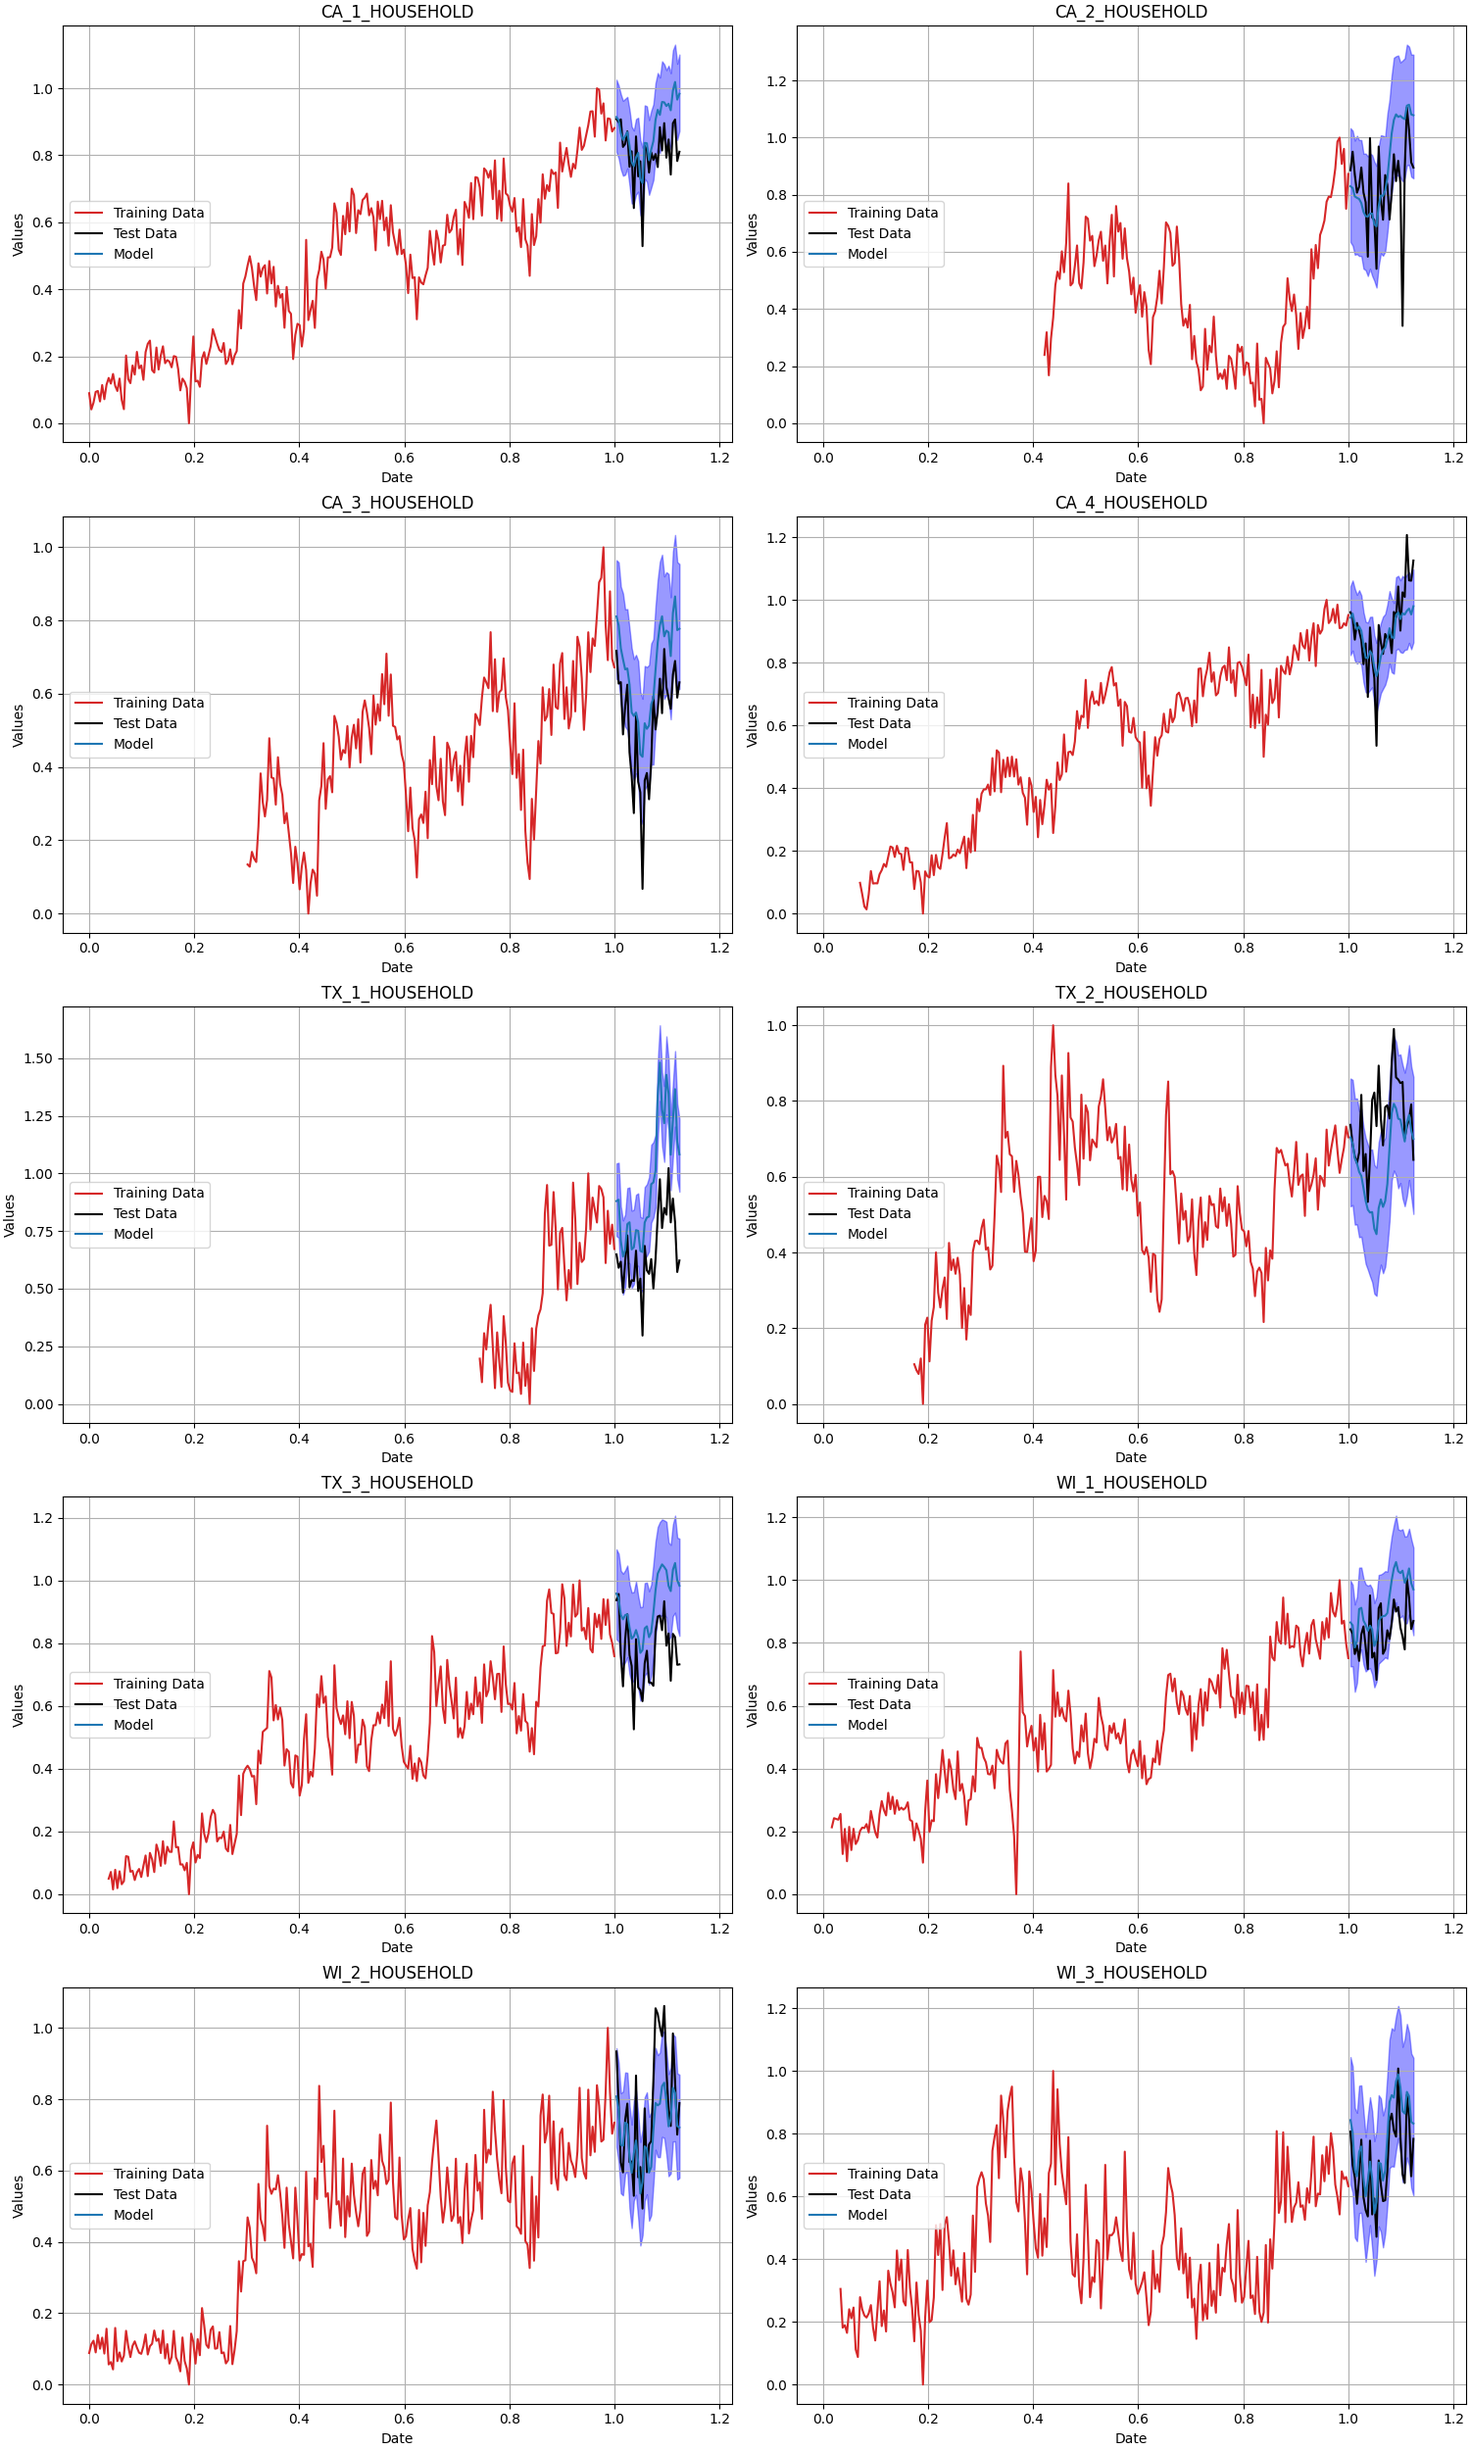
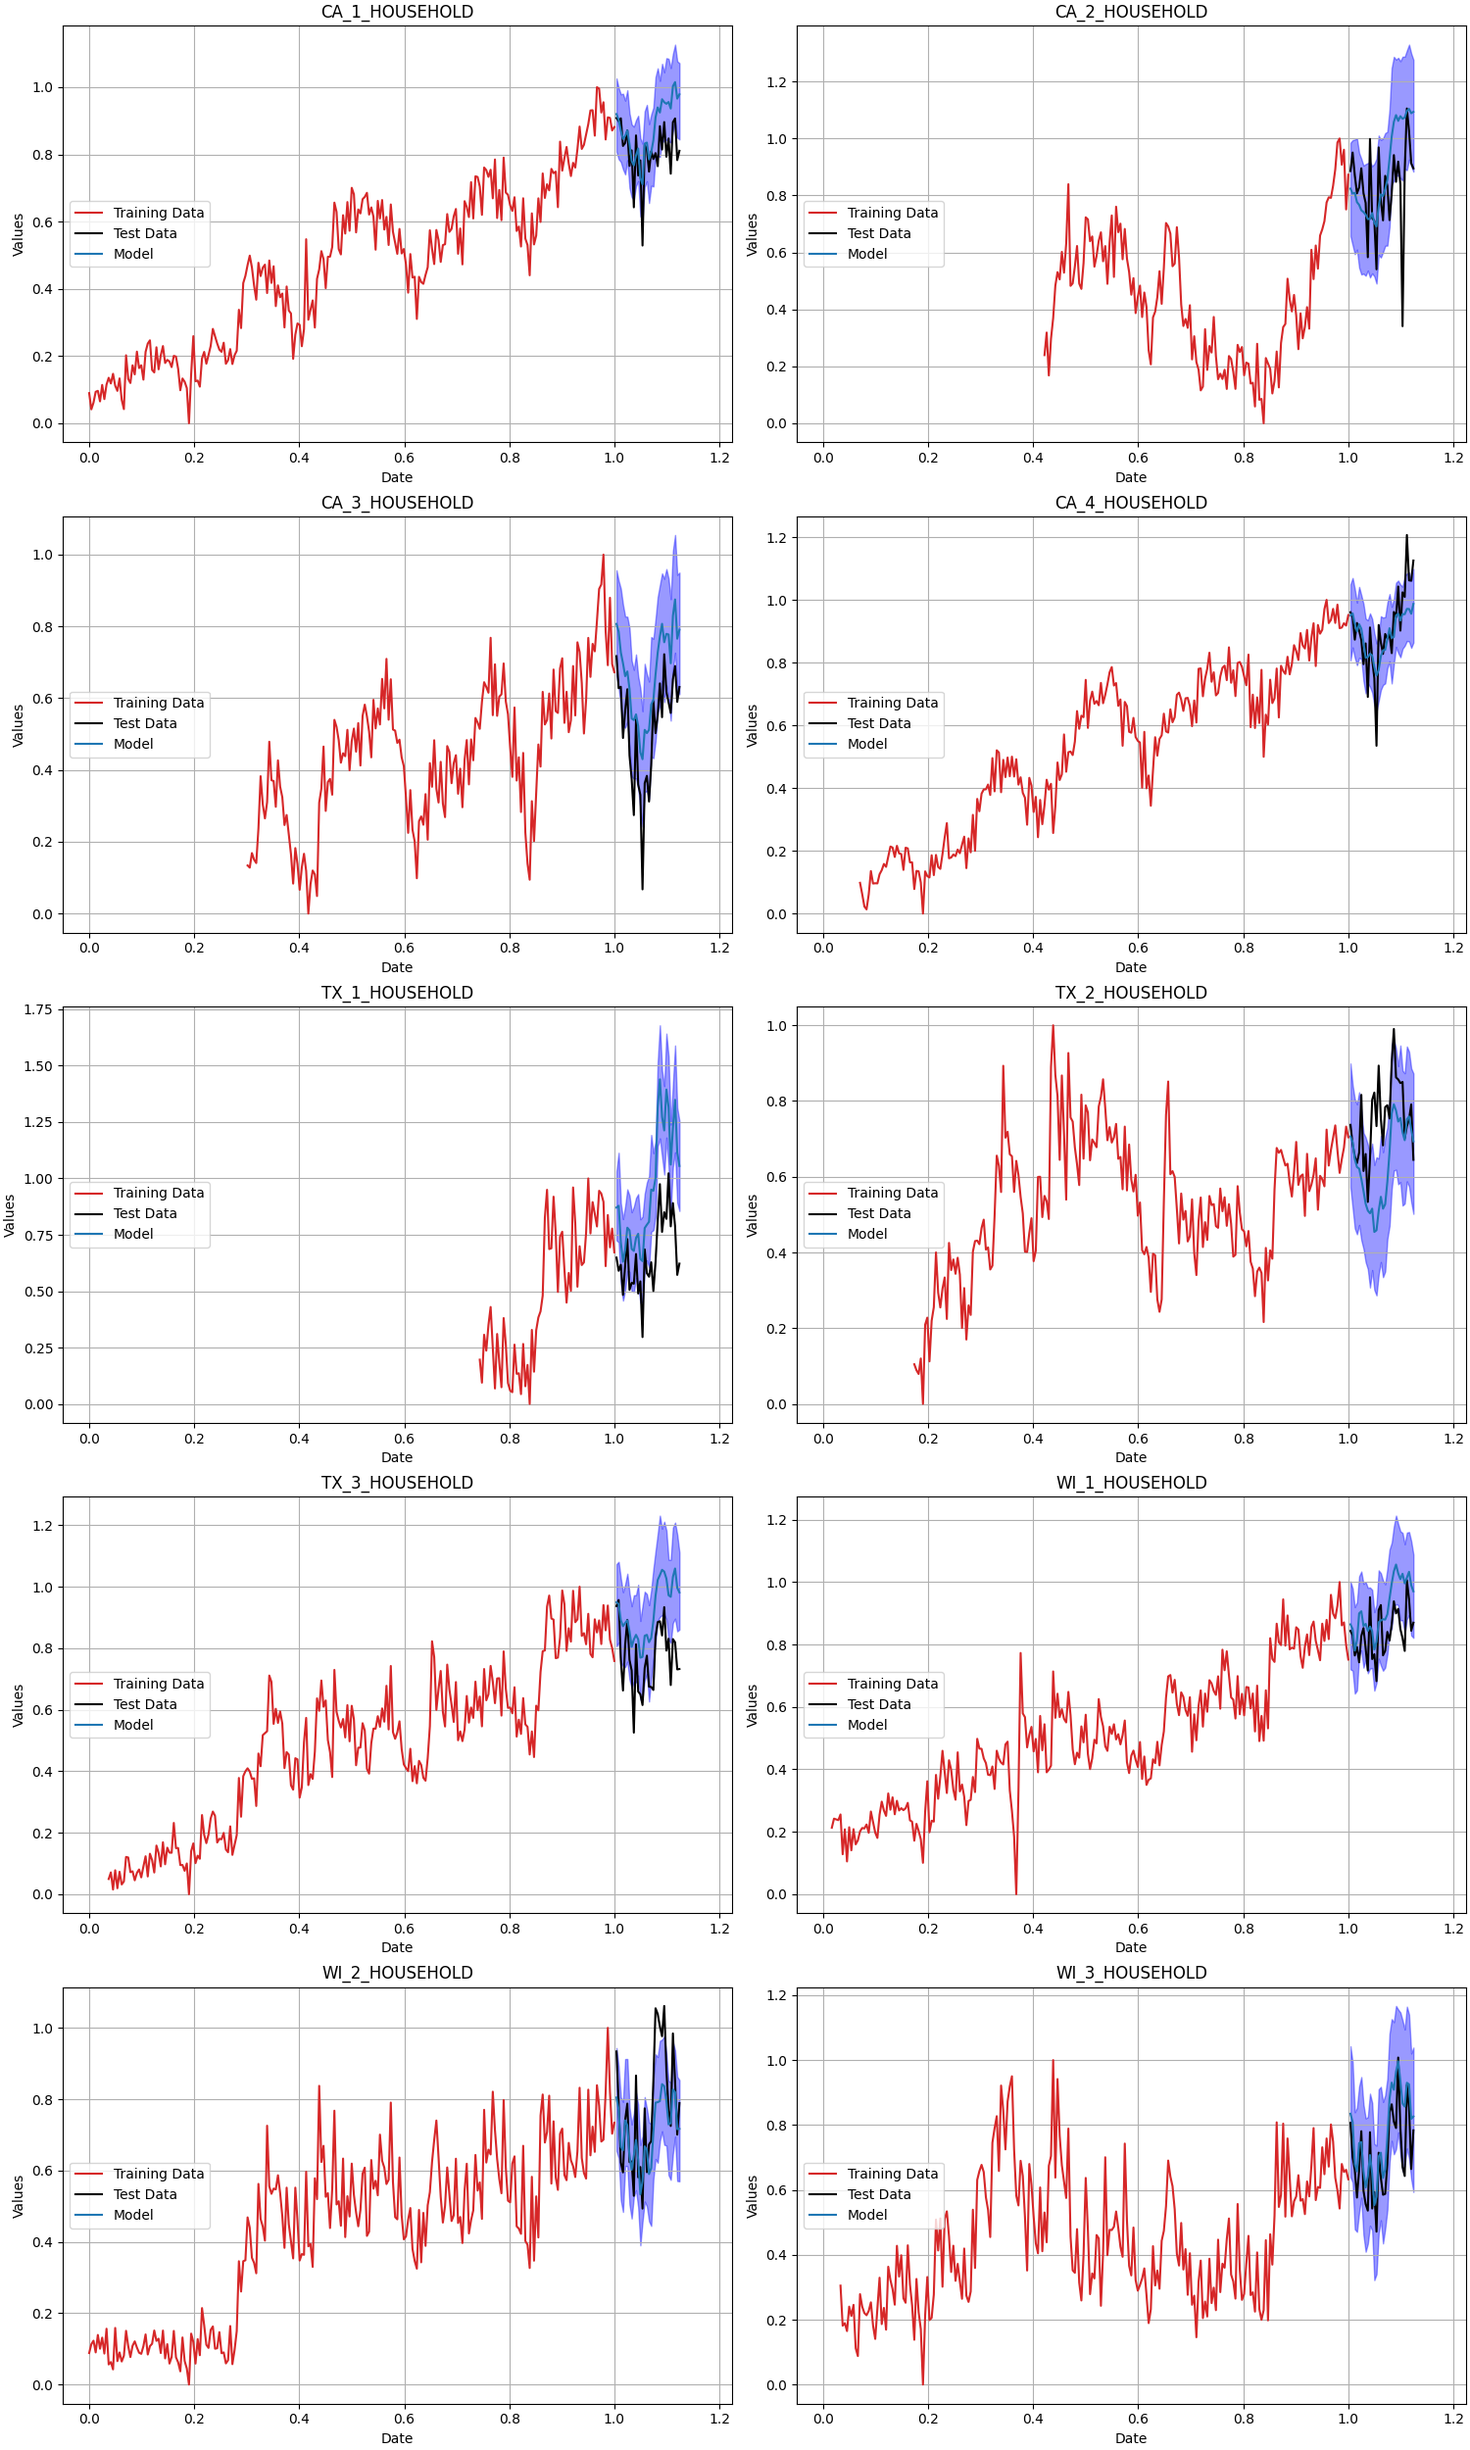
added point estimate to class

diff --git a/src/sorcerer/sorcerer_model.py b/src/sorcerer/sorcerer_model.py
@@ -215,6 +215,32 @@ class SorcererModel:
     def get_posterior_predictive(self) -> az.InferenceData:
         return self.posterior_predictive
 
+    def point_estimate(
+            self,
+            test_data,
+            point_estimate = "median",
+            **kwargs
+            ) -> pd.DataFrame:
+
+        model_preds = self.posterior_predictive(
+            test_data,
+            **kwargs
+            )
+        if point_estimate == "mean":
+            model_forecasts = model_preds["predictions"].mean(("chain", "draw")).values
+        elif point_estimate == "median":
+            model_forecasts = model_preds["predictions"].median(("chain", "draw")).values
+        else:
+            raise ValueError("point_estimate must be either 'mean' or 'median'.")
+
+        model_forecasts_with_timesteps = pd.DataFrame(
+            data= model_forecasts * (self.y_training_max - self.y_training_min).to_numpy() + self.y_training_min.to_numpy(),
+            columns = [x for x in test_data.columns if 'date' not in x]
+        )
+        model_forecasts_with_timesteps.insert(0, "date",  test_data["date"].values)
+
+        return model_forecasts_with_timesteps
+
     @property
     def id(self) -> str:
         return generate_hash_id(self.model_config, self.model_version, self.model_name)
